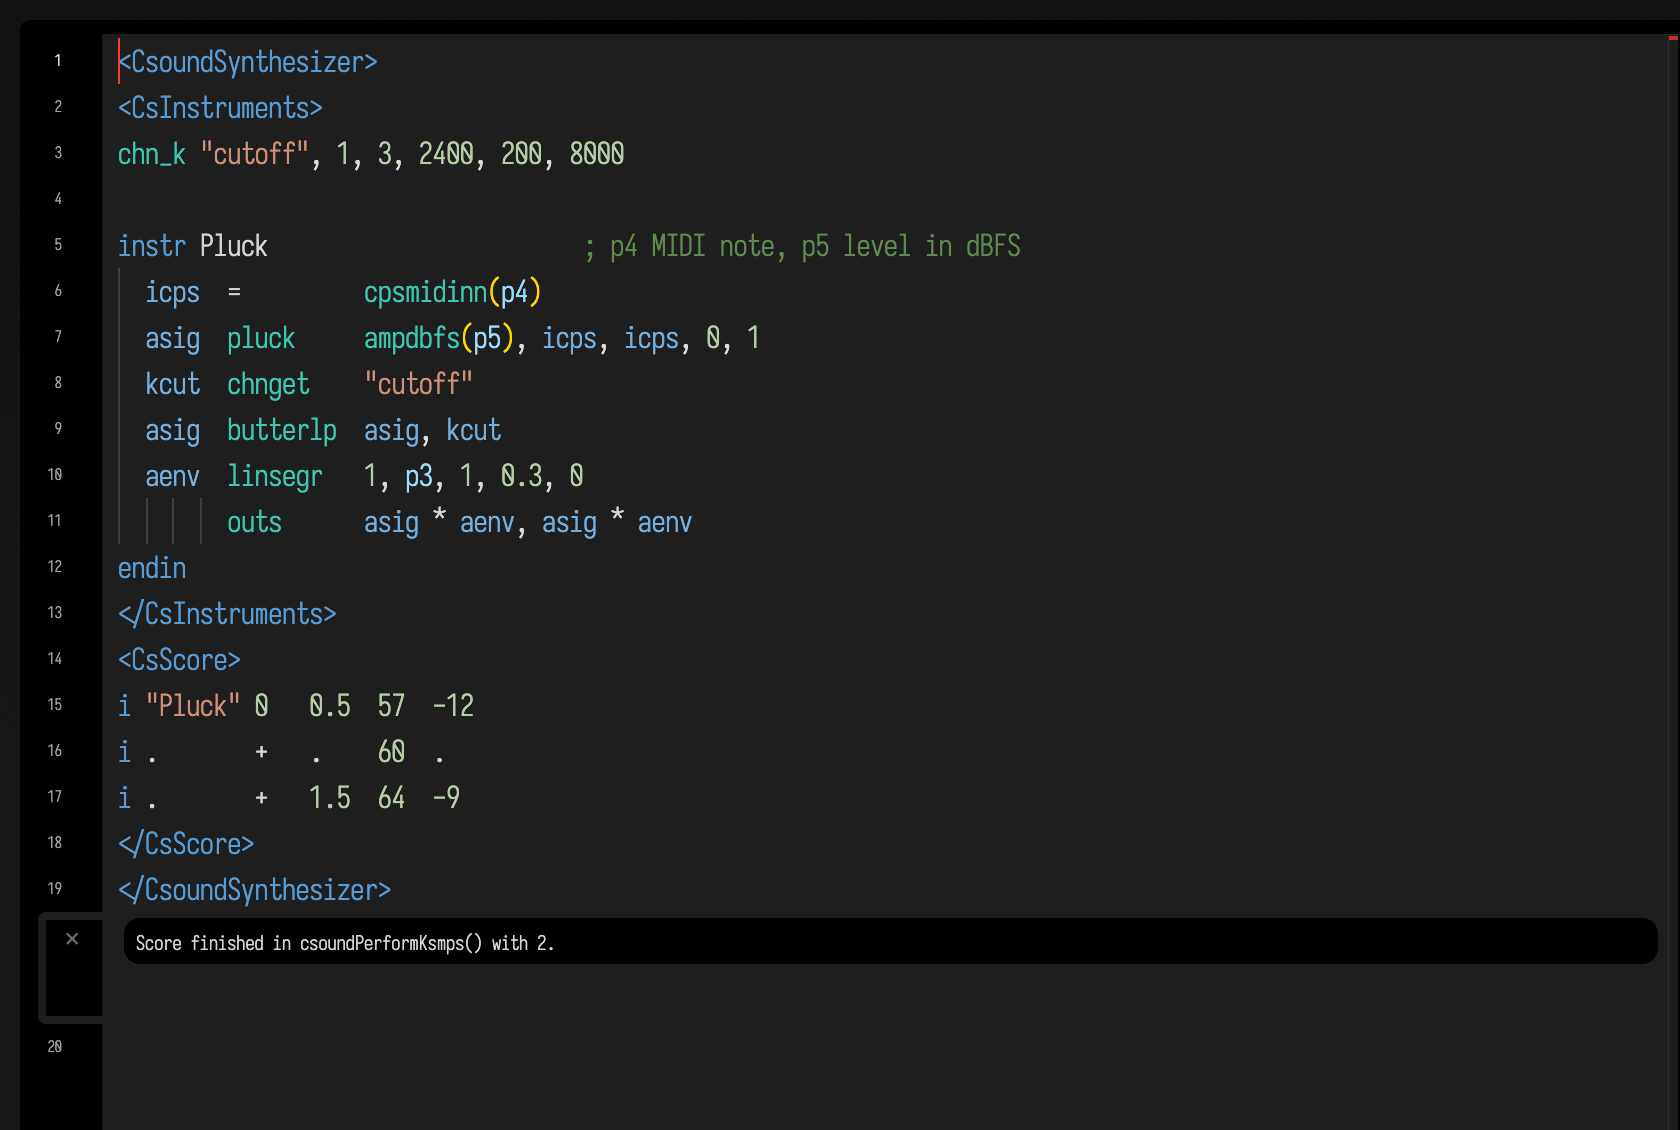
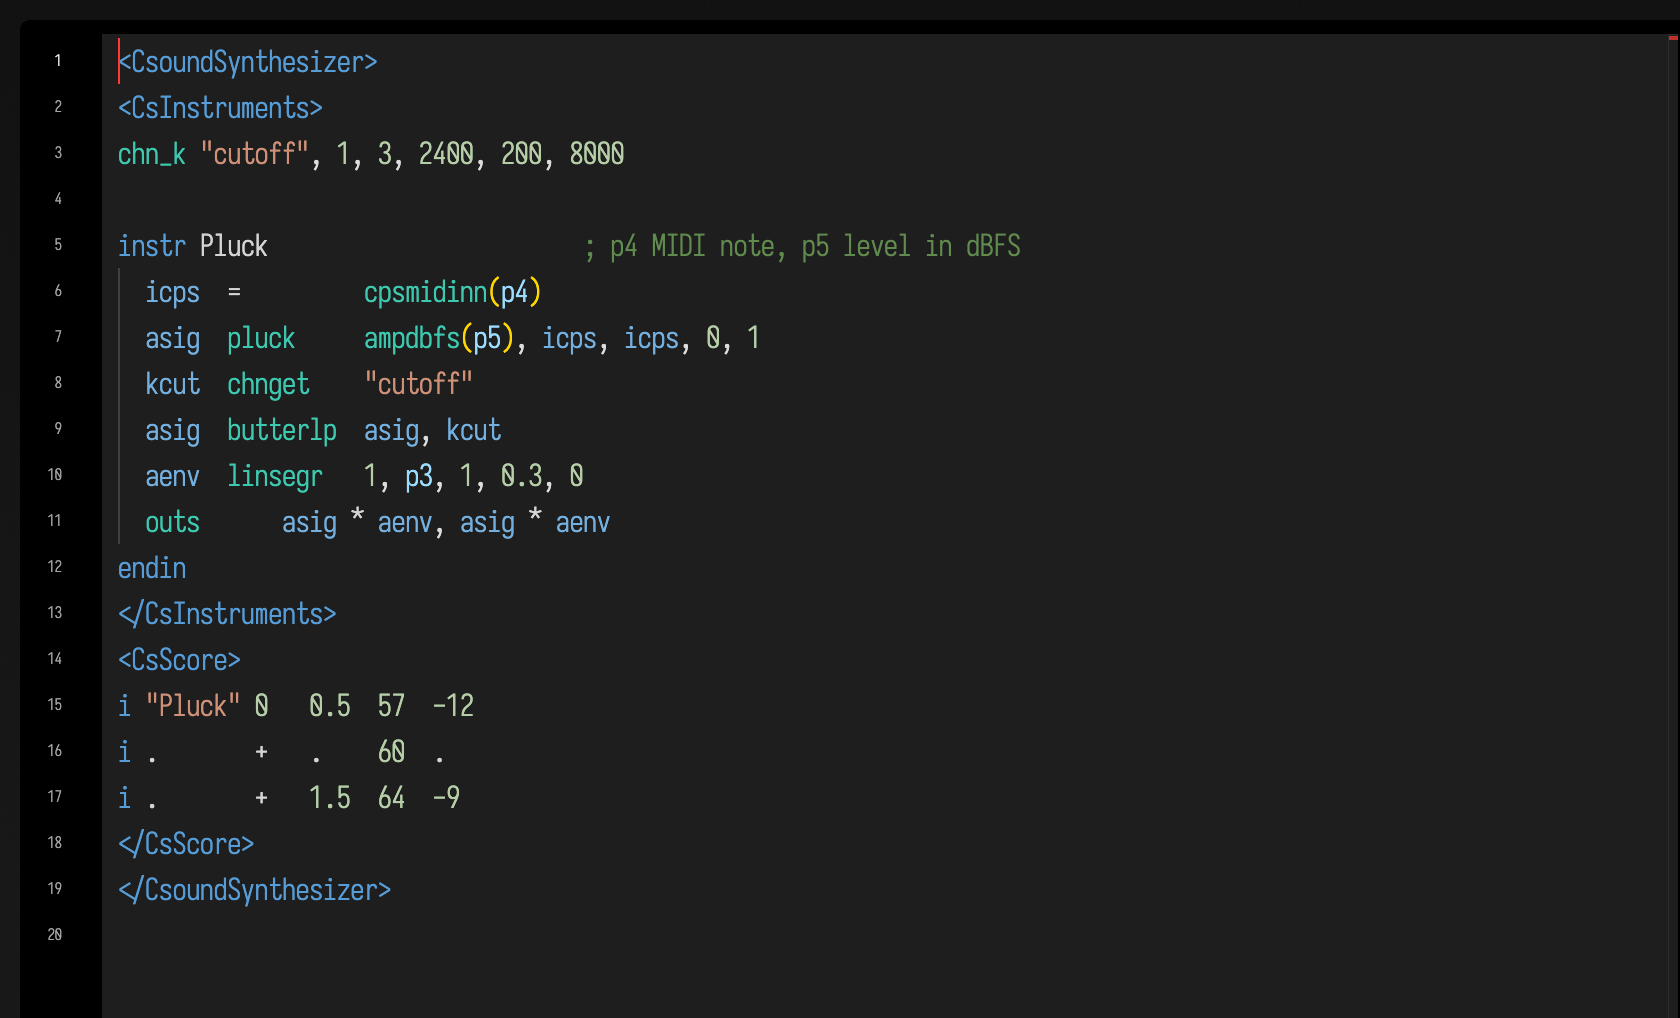
Csound: visible line-note figures, one indent level, no engine chatter
- Line notes were produced but never shown in editor.png: the editor
  shows the note for the cursor's line only, and the capture left the
  cursor on line 1. Two new runner captures (csound_line_notes setup
  macro) put the cursor on instr Pluck and on a carried score line and
  wait for .afield-line-note.
- Indent guides: lines with no output variable were column-padded
  (8 leading spaces = 4 guide levels). Everything inside instr in the
  docs and the demo is now indented one level (2 spaces).
- CsoundInstance.isRoutineChatter drops Csound's routine performance
  report (Score finished in csoundPerformKsmps(), SECTION n:, end of
  score, alloc notes, amplitude lines) from box output; console keeps
  everything; warnings, errors and orchestra prints are kept. Pinned in
  CsoundTest.
- editor.png and error.png recaptured (the error figure shows the one
  grouped diagnostic).

diff --git a/src/jvmMain/kotlin/afield/csound/CsoundInstance.kt b/src/jvmMain/kotlin/afield/csound/CsoundInstance.kt
@@ -484,7 +484,10 @@ class CsoundInstance(
 
     // ---- messages from Csound ---------------------------------------------------------------
 
-    /** Call [callback] with every whole line Csound prints. Delivered by [poll]. */
+    /**
+     * Call [callback] with every whole line Csound prints, except its routine end-of-performance
+     * chatter ([isRoutineChatter]), which only [console] keeps. Delivered by [poll].
+     */
     fun onMessage(callback: (String) -> Unit): Closeable {
         listeners += callback
         return Closeable { listeners -= callback }
@@ -536,6 +539,7 @@ class CsoundInstance(
         lines += drainMessages()
         for (l in lines) {
             remember(l)
+            if (isRoutineChatter(l)) continue   // kept in [console], not shown
             for (cb in listeners) runCatching { cb(l) }
         }
         return lines.size + n
@@ -682,6 +686,30 @@ class CsoundInstance(
         fun normalise(text: String): String {
             val leading = text.lines().takeWhile { it.isBlank() }.size.coerceAtMost(text.lines().size - 1)
             return "\n".repeat(leading) + text.trimIndent() + "\n"
+        }
+
+        private val CHATTER = listOf(
+            Regex("""^Score finished in csoundPerformKsmps\(\)( with \d+)?\.?$"""),
+            Regex("""^SECTION \d+:$"""),
+            Regex("""^end of (score|section \d+)\.?.*$"""),
+            Regex("""^new alloc for instr .*$"""),
+            Regex("""^inactive allocs returned to freespace$"""),
+            Regex("""^overall amps:.*$"""),
+            Regex("""^\s*overall samples out of range:.*$"""),
+            Regex("""^\d+ errors in performance$"""),
+            Regex("""^\s*B\s+[\d.]+\s+(\.\.|-)\s*[\d.]+\s+T\s+[\d.]+.*$"""),
+            Regex("""^\s*rtevent:\s+T\s+[\d.]+.*$"""),
+        )
+
+        /**
+         * Csound's routine report on a performance going as planned — "Score finished in
+         * csoundPerformKsmps() with 2.", "SECTION 1:", section and score ends, allocation notes, the
+         * per-section amplitude lines. Warnings, errors and everything an orchestra prints itself
+         * (`prints`, `printks`) are not chatter.
+         */
+        fun isRoutineChatter(line: String): Boolean {
+            val t = line.trim()
+            return t.isEmpty() || CHATTER.any { it.matches(t) }
         }
 
         /** Lines of CSD wrapping before the orchestra's first line. */

diff --git a/src/jvmTest/kotlin/afield/csound/CsoundTest.kt b/src/jvmTest/kotlin/afield/csound/CsoundTest.kt
@@ -204,4 +204,41 @@ class CsoundTest {
         assertEquals(listOf(CsoundInstance.Problem("Parsing failed due to 1 syntax error!\nStopping on parser failure", -1)),
             CsoundInstance.problemsIn(listOf("Parsing failed due to 1 syntax error!", "Stopping on parser failure")))
     }
+
+    @Test fun routineChatterIsDroppedAndWarningsAndPrintsAreKept() {
+        val dropped = listOf(
+            "Score finished in csoundPerformKsmps() with 2.",
+            "SECTION 1:",
+            "end of score.\t\t   overall amps:  0.25000  0.25000",
+            "new alloc for instr Pluck:",
+            "inactive allocs returned to freespace",
+            "overall amps:  0.24998  0.24998",
+            "\t   overall samples out of range:        0        0",
+            "0 errors in performance",
+            " B  0.000 ..  1.000 T  1.000 TT  1.000 M:  0.25000  0.25000",
+            "rtevent:\t   T  0.500 TT  0.500 M:  0.00000  0.00000",
+            "",
+        )
+        val kept = listOf(
+            "WARNING: instr Pluck not found",
+            "INIT ERROR in instr 1 (opcode poscil.kk) line 3: table not found",
+            "hello from csound",
+            "level 0.033",
+            "Key 62",
+        )
+        for (l in dropped) assertTrue(CsoundInstance.isRoutineChatter(l), "should drop: $l")
+        for (l in kept) assertTrue(!CsoundInstance.isRoutineChatter(l), "should keep: $l")
+    }
+
+    @Test fun printedLinesStillReachTheCallbackButTheScoreEndDoesNot() {
+        if (!available()) return
+        val lines = ArrayList<String>()
+        CsoundInstance("instr 1\n prints \"hello\\n\"\nendin", "i1 0 0.1").use { cs ->
+            cs.onMessage { lines += it }
+            cs.renderOffline()
+            assertTrue(cs.console.any { it.startsWith("Score finished") }, "the console keeps everything: ${cs.console}")
+        }
+        assertTrue(lines.contains("hello"), "$lines")
+        assertTrue(lines.none { it.startsWith("Score finished") }, "$lines")
+    }
 }

diff --git a/public/docs/assets/agent_transcripts/csound_demo/cs_pluck_code_.kt b/public/docs/assets/agent_transcripts/csound_demo/cs_pluck_code_.kt
@@ -19,31 +19,31 @@ instr Pluck                             ; p4 MIDI note, p5 level in dBFS
   asig  butterlp  asig, kcut
   aenv  linsegr   1, p3, 1, 0.3, 0
   asig  =         asig * aenv
-        chnmix    asig * 0.25, "reverb"
-        outs      asig, asig
+  chnmix    asig * 0.25, "reverb"
+  outs      asig, asig
 endin
 
 instr Key
   inote notnum
-        prints    "Key %d\n", inote
+  prints    "Key %d\n", inote
   icps  cpsmidi
   iamp  ampmidi   0.3
   asig  pluck     iamp, icps, icps, 0, 1
   aenv  madsr     0.005, 0.1, 0.6, 0.4
-        chnmix    asig * aenv * 0.25, "reverb"
-        outs      asig * aenv, asig * aenv
+  chnmix    asig * aenv * 0.25, "reverb"
+  outs      asig * aenv, asig * aenv
 endin
 
 instr Reverb
   ain     chnget    "reverb"
   aL, aR  reverbsc  ain, ain, 0.85, 10000
-          outs      aL, aR
-          chnclear  "reverb"
+  outs      aL, aR
+  chnclear  "reverb"
   krms    rms       aL + ain
-          chnset    krms, "level"
-          outvalue  "level", krms
+  chnset    krms, "level"
+  outvalue  "level", krms
   Svoice  chnget    "voice"
-          outvalue  "said", Svoice
+  outvalue  "said", Svoice
 endin
 </CsInstruments>
 <CsScore>

diff --git a/public/docs/assets/agent_transcripts/csound_demo/cs_fx_code_.kt b/public/docs/assets/agent_transcripts/csound_demo/cs_fx_code_.kt
@@ -7,8 +7,8 @@ chn_a "wet", 2
 instr Space
   ain     chnget    "in"
   aL, aR  reverbsc  ain, ain, 0.9, 8000
-          outs      ain * 0.5 + aL * 0.5, ain * 0.5 + aR * 0.5
-          chnset    aL, "wet"
+  outs      ain * 0.5 + aL * 0.5, ain * 0.5 + aR * 0.5
+  chnset    aL, "wet"
 endin
 </CsInstruments>
 <CsScore>

diff --git a/public/docs/assets/agent_transcripts/csound_demo/cs_table_code_.kt b/public/docs/assets/agent_transcripts/csound_demo/cs_table_code_.kt
@@ -3,7 +3,7 @@ val cs = afield.csound.CsoundInstance("""
 giWave  ftgen  1, 0, 4096, 10, 1
 instr Play
   asig  poscil  0.3, 220, giWave
-        outs    asig, asig
+  outs    asig, asig
 endin
 """, "i \"Play\" 0 0.1")
 val partials = listOf(1.0, 0.0, 0.33, 0.0, 0.2, 0.0, 0.14)     // odd harmonics: a square-ish wave

diff --git a/public/docs/assets/agent_transcripts/csound_demo/cs_measured_code_.kt b/public/docs/assets/agent_transcripts/csound_demo/cs_measured_code_.kt
@@ -3,7 +3,7 @@ val cs = afield.csound.CsoundInstance("""
 instr Filter
   ain   chnget    "in"
   alow  butterlp  ain, 500
-        chnset    alow, "low"
+  chnset    alow, "low"
 endin
 """, "i \"Filter\" 0 z")
 val node = cs.node(audioIn = mapOf("in" to SineOsc(Param(1000f))))

diff --git a/public/docs/assets/agent_transcripts/csound_demo/cs_typo_code_.kt b/public/docs/assets/agent_transcripts/csound_demo/cs_typo_code_.kt
@@ -2,7 +2,7 @@
 <CsInstruments>
 instr Beep
   asig  oscilx  0.2, 440       ; there is no oscilx: Csound's error lands on this line
-        outs    asig, asig
+  outs    asig, asig
 endin
 </CsInstruments>
 <CsScore>

diff --git a/public/docs/assets/agent_transcripts/csound_demo/document.md b/public/docs/assets/agent_transcripts/csound_demo/document.md
@@ -45,7 +45,7 @@ From `code`
 A wavetable computed in Kotlin, copied into ftable 1, played by poscil, and read back.
 
 ```edn [field-box id="cs_table" role="properties"]
[2 lines of base64/hex data omitted]
 ```
 
 ```kotlin [field-property box="cs_table" name="code" path="cs_table_code_.kt"]
@@ -54,7 +54,7 @@ val cs = afield.csound.CsoundInstance("""
 giWave  ftgen  1, 0, 4096, 10, 1
 instr Play
   asig  poscil  0.3, 220, giWave
-        outs    asig, asig
+  outs    asig, asig
 endin
 """, "i \"Play\" 0 0.1")
 val partials = listOf(1.0, 0.0, 0.33, 0.0, 0.2, 0.0, 0.14)     // odd harmonics: a square-ish wave
@@ -95,7 +95,7 @@ println(afield.csound.CsoundLibrary.describe())
 <!-- field-box id="cs_typo" index="3" -->
 
 ```edn [field-box id="cs_typo" role="properties"]
[2 lines of base64/hex data omitted]
 ```
 
 ```csound [field-property box="cs_typo" name="code" path="cs_typo_code_.kt"]
@@ -103,7 +103,7 @@ println(afield.csound.CsoundLibrary.describe())
 <CsInstruments>
 instr Beep
   asig  oscilx  0.2, 440       ; there is no oscilx: Csound's error lands on this line
-        outs    asig, asig
+  outs    asig, asig
 endin
 </CsInstruments>
 <CsScore>
@@ -117,7 +117,7 @@ i "Beep" 0 1
 <!-- field-box id="cs_pluck" index="4" -->
 
 ```edn [field-box id="cs_pluck" role="properties"]
[2 lines of base64/hex data omitted]
 ```
 
 ```csound [field-property box="cs_pluck" name="code" path="cs_pluck_code_.kt"]
@@ -142,31 +142,31 @@ instr Pluck                             ; p4 MIDI note, p5 level in dBFS
   asig  butterlp  asig, kcut
   aenv  linsegr   1, p3, 1, 0.3, 0
   asig  =         asig * aenv
-        chnmix    asig * 0.25, "reverb"
-        outs      asig, asig
+  chnmix    asig * 0.25, "reverb"
+  outs      asig, asig
 endin
 
 instr Key
   inote notnum
-        prints    "Key %d\n", inote
+  prints    "Key %d\n", inote
   icps  cpsmidi
   iamp  ampmidi   0.3
   asig  pluck     iamp, icps, icps, 0, 1
   aenv  madsr     0.005, 0.1, 0.6, 0.4
-        chnmix    asig * aenv * 0.25, "reverb"
-        outs      asig * aenv, asig * aenv
+  chnmix    asig * aenv * 0.25, "reverb"
+  outs      asig * aenv, asig * aenv
 endin
 
 instr Reverb
   ain     chnget    "reverb"
   aL, aR  reverbsc  ain, ain, 0.85, 10000
-          outs      aL, aR
-          chnclear  "reverb"
+  outs      aL, aR
+  chnclear  "reverb"
   krms    rms       aL + ain
-          chnset    krms, "level"
-          outvalue  "level", krms
+  chnset    krms, "level"
+  outvalue  "level", krms
   Svoice  chnget    "voice"
-          outvalue  "said", Svoice
+  outvalue  "said", Svoice
 endin
 </CsInstruments>
 <CsScore>
@@ -187,7 +187,7 @@ i "Pluck"  0    2    45  -6
 <!-- field-box id="cs_fx" index="5" -->
 
 ```edn [field-box id="cs_fx" role="properties"]
[2 lines of base64/hex data omitted]
 ```
 
 ```csound [field-property box="cs_fx" name="code" path="cs_fx_code_.kt"]
@@ -200,8 +200,8 @@ chn_a "wet", 2
 instr Space
   ain     chnget    "in"
   aL, aR  reverbsc  ain, ain, 0.9, 8000
-          outs      ain * 0.5 + aL * 0.5, ain * 0.5 + aR * 0.5
-          chnset    aL, "wet"
+  outs      ain * 0.5 + aL * 0.5, ain * 0.5 + aR * 0.5
+  chnset    aL, "wet"
 endin
 </CsInstruments>
 <CsScore>
@@ -278,7 +278,7 @@ From `code`
 Offline: a Field 1 kHz sine through Csound's butterlp at 500 Hz, and back.
 
 ```edn [field-box id="cs_measured" role="properties"]
[2 lines of base64/hex data omitted]
 ```
 
 ```kotlin [field-property box="cs_measured" name="code" path="cs_measured_code_.kt"]
@@ -287,7 +287,7 @@ val cs = afield.csound.CsoundInstance("""
 instr Filter
   ain   chnget    "in"
   alow  butterlp  ain, 500
-        chnset    alow, "low"
+  chnset    alow, "low"
 endin
 """, "i \"Filter\" 0 z")
 val node = cs.node(audioIn = mapOf("in" to SineOsc(Param(1000f))))

diff --git a/public/docs/csound.md b/public/docs/csound.md
@@ -45,7 +45,7 @@ instr Pluck                       ; p4 MIDI note, p5 level in dBFS
   kcut  chnget    "cutoff"
   asig  butterlp  asig, kcut
   aenv  linsegr   1, p3, 1, 0.3, 0
-        outs      asig * aenv, asig * aenv
+  outs      asig * aenv, asig * aenv
 endin
 </CsInstruments>
 <CsScore>
@@ -136,6 +136,31 @@ Rest the cursor on a line to see its note:
 The event count comes from the score text, so events sent later with Alt-Enter or from Kotlin are
 not counted.
 
+With the cursor on `instr Pluck`, the note at the editor's foot counts the score's events for it:
+
+```diffstatic_runner {data-lang=kotlin capture="ui" region="editor" clip-selector=".monaco-editor-container" screenshot="assets/csound/line-note-instr.png" macro-file="../../dev_docs/agents/transcripts/docs_capture/csound_line_notes.yaml" capture-box="csound_doc_pluck" padding="10" wait="0" timeout="120" embed=true hidden=true name="csound-line-note-instr" alt="The Pluck .csd in Field's editor with the cursor on line 5, instr Pluck. At the editor's foot the line note reads instr Pluck: 3 events in the score, and under it, lines 15, 16, 17."}
+ui.openEditor("csound_doc_pluck")
+ui.waitForSelector(".monaco-editor", 15000.0)
+ui.pause(1000)
+ui.editorHeight(470)
+ui.eval("var e = window.globalEditor; e.focus(); e.setPosition({lineNumber: 5, column: 1}); e.revealLine(5); return 'ok';")
+ui.waitForSelector(".afield-line-note", 10000.0)
+ui.pause(600)
+```
+
+On a score line it names the instrument the line plays and where that is defined. The `.` on line
+16 carries `"Pluck"` down from the line above:
+
+```diffstatic_runner {data-lang=kotlin capture="ui" region="editor" clip-selector=".monaco-editor-container" screenshot="assets/csound/line-note-score.png" macro-file="../../dev_docs/agents/transcripts/docs_capture/csound_line_notes.yaml" capture-box="csound_doc_pluck" padding="10" wait="0" timeout="120" embed=true hidden=true name="csound-line-note-score" alt="The same .csd with the cursor on line 16, the score line i . + . 60 . At the editor's foot the line note reads plays instr Pluck · line 5, with Alt-Enter sends it now under it."}
+ui.openEditor("csound_doc_pluck")
+ui.waitForSelector(".monaco-editor", 15000.0)
+ui.pause(1000)
+ui.editorHeight(470)
+ui.eval("var e = window.globalEditor; e.focus(); e.setPosition({lineNumber: 16, column: 1}); e.revealLine(16); return 'ok';")
+ui.waitForSelector(".afield-line-note", 10000.0)
+ui.pause(600)
+```
+
 ### Errors
 
 ```diffstatic_runner {data-lang=csound screenshot="assets/csound/error.png" capture="editor" outputs="inline" expect-error=true requires="csound" wait="4" padding="10" timeout="180" embed=true name="csound-error" w="900" h="300" alt="A Csound box whose instr Beep uses oscilx. Under that line, on line 4, one red marker holds Csound's whole diagnostic: Unable to find opcode entry for 'oscilx' with matching argument types:, then Found: a oscilx cc, then asig oscilx 0.2 …. Nothing is repeated below the box."}
@@ -143,7 +168,7 @@ not counted.
 <CsInstruments>
 instr Beep
   asig  oscilx  0.2, 440
-        outs    asig, asig
+  outs    asig, asig
 endin
 </CsInstruments>
 <CsScore>

diff --git a/dev_docs/GUARD_CORPORA.md b/dev_docs/GUARD_CORPORA.md
@@ -86,13 +86,13 @@ property that makes a page like this checkable by a person at all.
 | family | count | how | what it selects |
 | --- | --- | --- | --- |
 | transcripts, top level | 170 | `ls -1 dev_docs/agents/transcripts/*.yaml` | what `AgentTranscriptIndexGuard` and the three verification registries count |
-| transcripts, recursive | 181 | `find dev_docs/agents/transcripts -name '*.yaml' -o -name '*.yml'` | what `AgentTranscriptLayoutGuard` walks; the difference is the `docs_capture/` variants |
+| transcripts, recursive | 182 | `find dev_docs/agents/transcripts -name '*.yaml' -o -name '*.yml'` | what `AgentTranscriptLayoutGuard` walks; the difference is the `docs_capture/` variants |
 | demo directories | 48 | `git ls-files dev_docs/agents/demos/ \| cut -d/ -f4 \| sort -u` | the COMMITTED demo directories, which is what a ledger can be stated over. `ls -1d` was the derivation until 2026-09-25, and it counts anything on disk — so an ignored scratch folder under `demos/` read as an undeclared demo and failed this guard in a working tree while the committed corpus was correct. held as a named set by `AgentDemoRegistrationTest.DEMO_CORPUS` and `test_demo_build_scripts.CORPUS`. **Directories, not documents** — one of them (`flow_grain`, 2026-09-22) has no `metadata.edn` and is transcript *source* rather than a saved document, so the loadable-document population is one smaller and is what `AgentDemoRegistrationTest.demoDocuments` filters to |
 | demos shipping a `build.yaml` | 10 | `git ls-files 'dev_docs/agents/demos/*/build.yaml'` | the population `test_demo_build_scripts.py` diffs against its `_code_.kt` sidecars |
 | entries on `public/docs/agent_transcripts.md` | 170 | `grep -oE '^### [a-z0-9_]+$' public/docs/agent_transcripts.md` | must equal the top-level transcript count, both directions |
 | materialized starting-point bundles | 164 | `ls -1d public/docs/assets/agent_transcripts/*/` | transcripts minus `AgentTranscriptMaterializer.EXCLUDE` |
 
-The two transcript counts are both right and they are not the same measurement: 181 = 170 + 11 under `docs_capture/`. If you quote one of them, say which.
+The two transcript counts are both right and they are not the same measurement: 182 = 170 + 12 under `docs_capture/`. If you quote one of them, say which.
 
 <!-- guard-corpora: generated end -->
 
